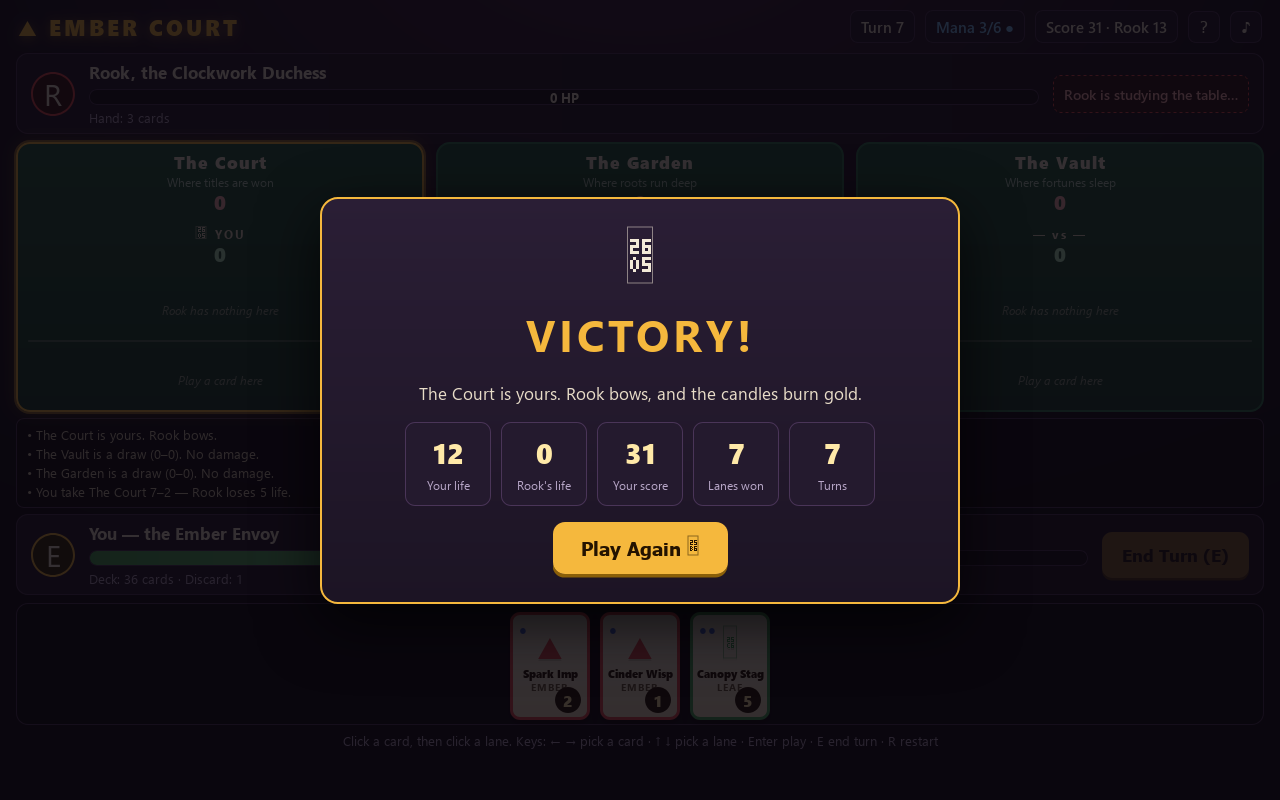
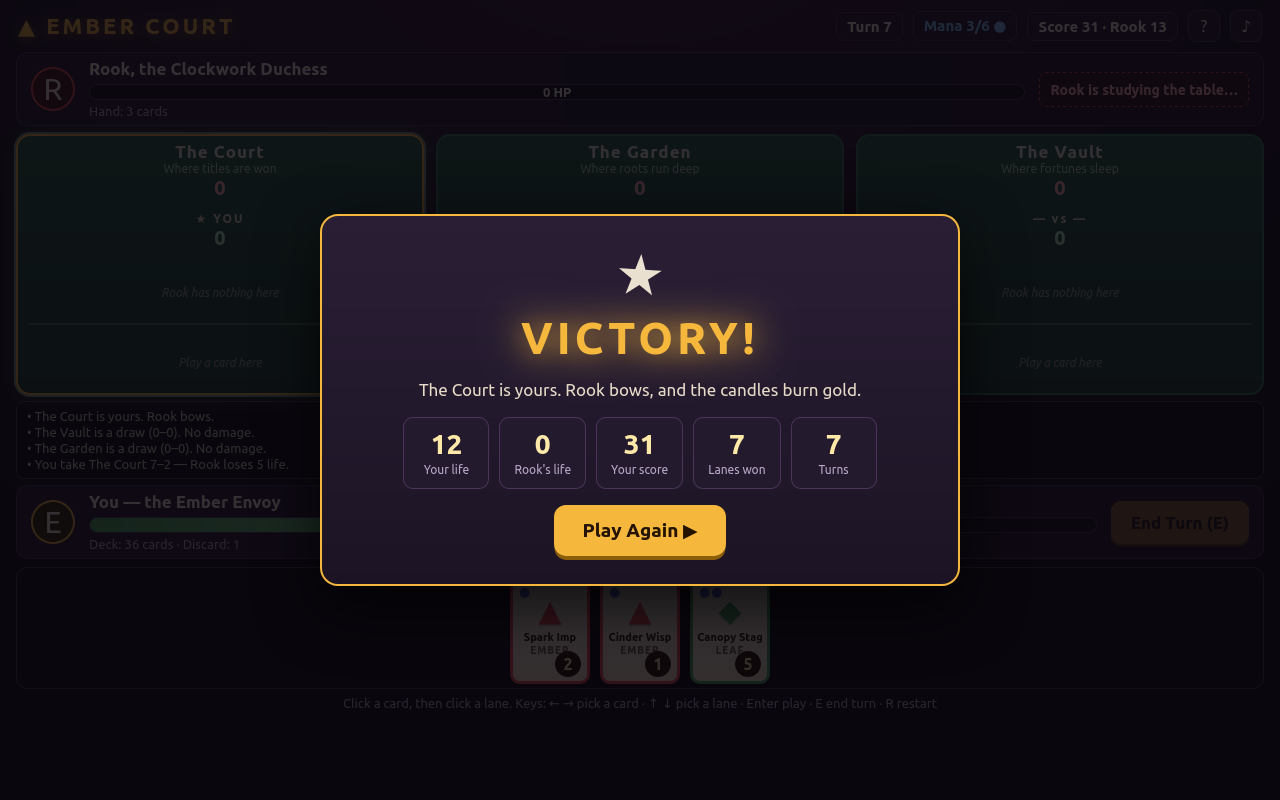
Ember Court optimization: longer duels, smarter Rook, more feel
- Life 20 -> 30: sims showed 72% of games ended by turn 5 (avg 5.1
  turns); now avg 9.3 turns, only 5% end by turn 5. Life bars now
  scale by START_LIFE instead of a hardcoded 20.
- Rook now picks plays by life-swing value (Harmony +2 and suit edge
  +2 priced in via lanePower), one card per lane a turn, and never
  spends a card on a lane she still loses. A version that could stack
  two cards into one lane won 75% vs a value-playing bot, so the cap
  stays: value bot wins 36%, greedy bot 27%, no dominant strategy.
- Feel: played cards land with an animation, life bars flash on
  damage, winning lanes glow, victory title glows and twinkles.
- Screenshots retaken as real Camoufox renders (1280x800, <256 KiB).
  Browser playtest: 11-turn game to DEFEAT, keyboard + mouse play,
  rematch + help, 0 console errors. main.ts double-run identical.

diff --git a/game/src/ai.js b/game/src/ai.js
@@ -1,5 +1,4 @@
 /* Ember Court — the opponent. One job: Rook's readable strategy. */
-import { BEATS } from './config.js';
 import { lanePower } from './state.js';
 import { SUITS } from './config.js';
 
@@ -14,55 +13,76 @@ export function chooseIntent(game) {
   return bestLane.id;
 }
 
+function laneWinner(youCards, foeCards) {
+  const you = lanePower(youCards, foeCards).power;
+  const foe = lanePower(foeCards, youCards).power;
+  if (foe > you) return 'foe';
+  if (you > foe) return 'you';
+  return null;
+}
+
+/** Net life swing of a lane from Rook's side: damage she deals minus damage she takes. */
+function laneNet(youCards, foeCards) {
+  const you = lanePower(youCards, foeCards).power;
+  const foe = lanePower(foeCards, youCards).power;
+  if (foe > you) return foe - you;
+  if (you > foe) return -(you - foe);
+  return 0;
+}
+
 /**
- * Rook's turn: for each lane, in order of threat, spend mana on the cheapest
- * card that flips the lane, preferring a suit that beats the player's dominant
- * suit there. She keeps one mana in reserve when she already leads two lanes.
+ * Value of Rook playing `card` into `lane`: the change in this turn's life
+ * swing, plus a bonus for flipping a lane. Harmony (+2) and suit edge (+2)
+ * already live inside lanePower, so finishing a pair or countering a suit is
+ * priced in automatically — she now plays for combos, not just raw power.
+ */
+function playValue(lane, card) {
+  const before = laneNet(lane.you, lane.foe);
+  const after = laneNet(lane.you, [...lane.foe, card]);
+  let value = after - before;
+  if (laneWinner(lane.you, lane.foe) === 'you' && laneWinner(lane.you, [...lane.foe, card]) === 'foe') {
+    value += 2; // flipping a lane also denies the player its score
+  }
+  return { value, stillLosing: laneWinner(lane.you, [...lane.foe, card]) === 'you' };
+}
+
+/**
+ * Rook's turn: one card per lane at most, each the best-value play for the
+ * mana — she finishes Harmony pairs, counters suits, and banks damage in an
+ * empty lane, but never spends a card on a lane she still loses: with the
+ * player committing first and Rook answering with perfect information, a
+ * Rook who could stack two cards into one lane won 75% of games against a
+ * value-playing bot (simulated), which is no duel at all. She keeps one mana
+ * in reserve when she already leads two lanes.
  */
 export function takeFoeTurn(game) {
   const foe = game.foe;
   let mana = Math.min(game.turn + 1, 6);
   const played = [];
-  const lanesByThreat = [...game.lanes].sort((a, b) => {
-    const pa = lanePower(a.you, a.foe).power - lanePower(a.foe, a.you).power;
-    const pb = lanePower(b.you, b.foe).power - lanePower(b.foe, b.you).power;
-    return pb - pa;
-  });
-  for (const lane of lanesByThreat) {
+  const usedLanes = new Set();
+  for (;;) {
     const leading = game.lanes.filter((l) => lanePower(l.foe, l.you).power > lanePower(l.you, l.foe).power).length;
-    if (leading >= 2 && mana <= 1) break;
-    const yourSuit = dominantSuitName(lane.you);
-    const counterSuit = yourSuit ? Object.keys(BEATS).find((s) => BEATS[s] === yourSuit) : null;
-    const candidates = foe.hand
-      .filter((c) => c.cost <= mana)
-      .sort((a, b) => {
-        const aCounter = counterSuit && a.suit === counterSuit ? 0 : 1;
-        const bCounter = counterSuit && b.suit === counterSuit ? 0 : 1;
-        if (aCounter !== bCounter) return aCounter - bCounter;
-        return (a.power / a.cost) - (b.power / b.cost) || a.cost - b.cost;
-      });
-    for (const card of candidates) {
-      const before = lanePower(lane.foe, lane.you).power;
-      const after = lanePower([...lane.foe, card], lane.you).power;
-      const youNow = lanePower(lane.you, [...lane.foe, card]).power;
-      if (after <= youNow && lane.you.length > 0) continue; // would still lose: save the card
-      if (after === before && lane.foe.length > 0) continue; // adds nothing
-      foe.hand.splice(foe.hand.indexOf(card), 1);
-      lane.foe.push(card);
-      mana -= card.cost;
-      played.push({ card, laneId: lane.id });
-      break;
+    if (leading >= 2 && mana <= 1) break; // keep a mana in reserve while ahead
+    let best = null;
+    for (const card of foe.hand) {
+      if (card.cost > mana) continue;
+      for (const lane of game.lanes) {
+        if (usedLanes.has(lane.id)) continue; // one card per lane a turn
+        const { value, stillLosing } = playValue(lane, card);
+        if (stillLosing) continue; // save the card: it wins no lane this turn
+        const score = value - card.cost * 0.25; // small price for spending a card
+        if (score <= 0) continue;
+        if (!best || score > best.score) best = { score, card, lane };
+      }
     }
-    if (mana <= 0) break;
+    if (!best) break;
+    foe.hand.splice(foe.hand.indexOf(best.card), 1);
+    best.lane.foe.push(best.card);
+    usedLanes.add(best.lane.id);
+    mana -= best.card.cost;
+    played.push({ card: best.card, laneId: best.lane.id });
   }
   return played;
-}
-
-function dominantSuitName(cards) {
-  if (cards.length === 0) return null;
-  const counts = {};
-  for (const card of cards) counts[card.suit] = (counts[card.suit] || 0) + 1;
-  return Object.entries(counts).sort((a, b) => b[1] - a[1])[0][0];
 }
 
 export function suitName(suit) { return SUITS[suit].name; }

diff --git a/game/src/render.js b/game/src/render.js
@@ -1,5 +1,5 @@
 /* Ember Court — rendering. One job: turn game state into DOM. */
-import { SUITS } from './config.js';
+import { START_LIFE, SUITS } from './config.js';
 import { lanePower } from './state.js';
 
 const $ = (id) => document.getElementById(id);
@@ -7,7 +7,7 @@ const $ = (id) => document.getElementById(id);
 export function cardElement(card, opts = {}) {
   const suit = SUITS[card.suit];
   const el = document.createElement('div');
-  el.className = `card suit-${card.suit}${opts.small ? ' small' : ''}${opts.faceDown ? ' face-down' : ''}${opts.selected ? ' selected' : ''}`;
+  el.className = `card suit-${card.suit}${opts.small ? ' small' : ''}${opts.faceDown ? ' face-down' : ''}${opts.selected ? ' selected' : ''}${opts.justPlayed ? ' just-played' : ''}`;
   el.dataset.uid = card.uid;
   if (opts.faceDown) {
     el.innerHTML = '<div class="card-back">★</div>';
@@ -29,8 +29,8 @@ export function render(game, ui) {
   $('score-label').textContent = `Score ${game.you.score} · Rook ${game.foe.score}`;
   $('you-life-text').textContent = `${Math.max(0, game.you.life)} HP`;
   $('foe-life-text').textContent = `${Math.max(0, game.foe.life)} HP`;
-  $('you-life-fill').style.width = `${Math.max(0, game.you.life) * 5}%`;
-  $('foe-life-fill').style.width = `${Math.max(0, game.foe.life) * 5}%`;
+  $('you-life-fill').style.width = `${Math.max(0, game.you.life) / START_LIFE * 100}%`;
+  $('foe-life-fill').style.width = `${Math.max(0, game.foe.life) / START_LIFE * 100}%`;
   $('foe-hand-label').textContent = `Hand: ${game.foe.hand.length} cards`;
   $('deck-label').textContent = `Deck: ${game.you.deck.length} cards · Discard: ${game.you.discard.length}`;
   $('foe-intent').textContent = game.foeIntent
@@ -41,6 +41,8 @@ export function render(game, ui) {
   renderLanes(game, ui);
   renderHand(game, ui);
   renderOverlay(game, ui);
+  // A just-played card lands once, on the first render after the play.
+  ui.lastPlayed = null;
 }
 
 function laneName(game, laneId) {
@@ -55,10 +57,10 @@ function renderLanes(game, ui) {
     const you = lanePower(lane.you, lane.foe);
     const foe = lanePower(lane.foe, lane.you);
     const col = document.createElement('section');
-    col.className = `lane${ui.selectedLane === lane.id ? ' lane-target' : ''}${game.foeIntent === lane.id ? ' lane-threat' : ''}`;
     col.dataset.lane = lane.id;
     const winnerMark = game.lastResolution
       ? (game.lastResolution.find((r) => r.laneId === lane.id)?.winner ?? null) : null;
+    col.className = `lane${ui.selectedLane === lane.id ? ' lane-target' : ''}${game.foeIntent === lane.id ? ' lane-threat' : ''}${winnerMark === 'you' ? ' lane-won-you' : winnerMark === 'foe' ? ' lane-won-foe' : ''}`;
     col.innerHTML = `
       <div class="lane-head">
         <div class="lane-name">${lane.name}</div>
@@ -72,8 +74,9 @@ function renderLanes(game, ui) {
       <div class="lane-cards you-cards"></div>`;
     const foeBox = col.querySelector('.foe-cards');
     const youBox = col.querySelector('.you-cards');
-    for (const card of lane.foe) foeBox.appendChild(cardElement(card, { small: true }));
-    for (const card of lane.you) youBox.appendChild(cardElement(card, { small: true }));
+    const justPlayed = ui.lastPlayed?.uid;
+    for (const card of lane.foe) foeBox.appendChild(cardElement(card, { small: true, justPlayed: card.uid === justPlayed }));
+    for (const card of lane.you) youBox.appendChild(cardElement(card, { small: true, justPlayed: card.uid === justPlayed }));
     if (lane.foe.length === 0) foeBox.innerHTML = '<div class="lane-empty">Rook has nothing here</div>';
     if (lane.you.length === 0) youBox.innerHTML = '<div class="lane-empty">Play a card here</div>';
     lanesEl.appendChild(col);
@@ -120,7 +123,7 @@ function renderOverlay(game, ui) {
         Play cards into lanes — higher power takes the lane and deals the difference as damage.<br>
         Same suit twice in a lane: <b>Harmony +2</b>. A lone Star: <b>+1</b>. Beat her suit: <b>+2</b>.<br>
         Ember burns Leaf · Leaf drinks Tide · Tide drowns Ember.<br>
-        First to 0 life loses. 20 life each. Good luck, Envoy.</p>
+        First to 0 life loses. 30 life each. Good luck, Envoy.</p>
         <button id="start-btn" type="button" class="big-btn">Take Your Seat ▶</button>
         <p class="keys-hint">Mouse or keyboard: ← → pick a card · ↑ ↓ pick a lane · Enter play · E end turn</p>
       </div>`;

diff --git a/game/src/main.js b/game/src/main.js
@@ -17,6 +17,10 @@ const ui = {
   selectedCard: null,
   selectedLane: 'court',
   showHelp: false,
+  lastPlayed: null, // { uid } of the card that just landed — render animates it once
+  prevYouLife: null,
+  prevFoeLife: null,
+  seenGame: null,
   onStart() {
     game.phase = 'play';
     chooseIntent(game);
@@ -40,6 +44,7 @@ const ui = {
   onPlayCard(cardUid, laneId) {
     const result = playCard(game, cardUid, laneId);
     if (!result.ok) showToast(result.reason);
+    else ui.lastPlayed = { uid: cardUid };
     return result;
   },
   onEndTurn() {
@@ -48,6 +53,7 @@ const ui = {
     draw();
     chooseIntent(game);
     const played = takeFoeTurn(game);
+    if (played.length > 0) ui.lastPlayed = { uid: played[played.length - 1].card.uid };
     for (const { card, laneId } of played) {
       const lane = game.lanes.find((l) => l.id === laneId);
       pushLog(game, `Rook plays ${card.name} (${card.power}) to ${lane.name}.`);
@@ -68,7 +74,31 @@ const ui = {
   },
 };
 
-function draw() { render(game, ui); }
+function draw() {
+  render(game, ui);
+  // Damage flash: the life bars are static DOM, so a class here survives
+  // re-renders; a fresh game resets the baseline without flashing.
+  if (ui.seenGame !== game) {
+    ui.seenGame = game;
+    ui.prevYouLife = game.you.life;
+    ui.prevFoeLife = game.foe.life;
+    return;
+  }
+  flashIfHurt('you', game.you.life, ui.prevYouLife);
+  flashIfHurt('foe', game.foe.life, ui.prevFoeLife);
+  ui.prevYouLife = game.you.life;
+  ui.prevFoeLife = game.foe.life;
+}
+
+function flashIfHurt(side, life, prevLife) {
+  if (prevLife == null || life >= prevLife) return;
+  const bar = document.querySelector(side === 'you' ? '#player-row .life-bar' : '#foe-row .life-bar');
+  if (!bar) return;
+  bar.classList.remove('hit');
+  void bar.offsetWidth; // restart the animation
+  bar.classList.add('hit');
+  setTimeout(() => bar.classList.remove('hit'), 600);
+}
 
 // Expose the live game for play-testing and debugging in the browser console.
 window.__game = game;

diff --git a/game/style.css b/game/style.css
@@ -61,6 +61,12 @@ body {
 .card:hover { transform: translateY(-8px) scale(1.04); }
 .card.selected { transform: translateY(-12px) scale(1.06); box-shadow: 0 0 0 3px #f5b83d, 0 10px 18px rgba(0,0,0,.6); }
 .card.unaffordable { opacity: .55; filter: grayscale(.5); }
+@keyframes cardLand { 0% { transform: translateY(-14px) scale(1.12); box-shadow: 0 0 0 3px #f5b83d, 0 12px 22px rgba(0,0,0,.65); } 100% { transform: none; } }
+.card.just-played { animation: cardLand .45s ease; }
+@keyframes lifeHit { 0% { box-shadow: 0 0 0 3px rgba(229,72,77,.85); } 100% { box-shadow: none; } }
+.life-bar.hit { animation: lifeHit .55s ease; }
+.lane-won-you { box-shadow: 0 0 0 2px rgba(184,240,200,.55), 0 0 18px rgba(70,167,88,.4); }
+.lane-won-foe { box-shadow: 0 0 0 2px rgba(255,180,184,.55), 0 0 18px rgba(229,72,77,.4); }
 .card.small { width: 60px; height: 80px; cursor: default; }
 .card.small:hover { transform: none; }
 .suit-ember { border-color: #e5484d; }
@@ -95,7 +101,10 @@ body {
 .big-btn:hover { filter: brightness(1.1); }
 .keys-hint { font-size: 13px; color: #b9a8c9; }
 .win-panel { border-color: #f5b83d; }
-.win-panel h1 { color: #f5b83d; }
+@keyframes victoryGlow { from { text-shadow: 0 0 12px rgba(245,184,61,.55); } to { text-shadow: 0 0 34px rgba(245,184,61,.95), 0 0 60px rgba(245,184,61,.5); } }
+@keyframes starTwinkle { 0%, 100% { transform: scale(1) rotate(0deg); opacity: 1; } 50% { transform: scale(1.25) rotate(12deg); opacity: .85; } }
+.win-panel h1 { color: #f5b83d; animation: victoryGlow 1.4s ease-in-out infinite alternate; }
+.win-panel .end-glyph { animation: starTwinkle 1.6s ease-in-out infinite; }
 .loss-panel { border-color: #e5484d; }
 .loss-panel h1 { color: #ff7a6e; }
 .end-glyph { font-size: 52px; }

diff --git a/game/index.html b/game/index.html
@@ -24,7 +24,7 @@
       <div class="portrait foe-portrait">R</div>
       <div class="combatant-info">
         <div class="combatant-name">Rook, the Clockwork Duchess</div>
-        <div class="life-bar"><div id="foe-life-fill" class="life-fill foe-fill"></div><span id="foe-life-text" class="life-text">20 HP</span></div>
+        <div class="life-bar"><div id="foe-life-fill" class="life-fill foe-fill"></div><span id="foe-life-text" class="life-text">30 HP</span></div>
         <div id="foe-hand-label" class="hand-count">Hand: 4 cards</div>
       </div>
       <div id="foe-intent" class="intent">Rook is studying the table…</div>
@@ -40,7 +40,7 @@
       <div class="portrait you-portrait">E</div>
       <div class="combatant-info">
         <div class="combatant-name">You — the Ember Envoy</div>
-        <div class="life-bar"><div id="you-life-fill" class="life-fill you-fill"></div><span id="you-life-text" class="life-text">20 HP</span></div>
+        <div class="life-bar"><div id="you-life-fill" class="life-fill you-fill"></div><span id="you-life-text" class="life-text">30 HP</span></div>
         <div id="deck-label" class="hand-count">Deck: 32 cards</div>
       </div>
       <button id="end-turn-btn" type="button">End Turn (E)</button>

diff --git a/game/src/config.js b/game/src/config.js
@@ -1,6 +1,8 @@
 /* Ember Court — configuration: suits, lanes, deck, tuning. One job: constants. */
 
-export const START_LIFE = 20;
+export const START_LIFE = 30; // 30, not 20: at 20 the duel ended in ~5 turns
+// (300-game sim: 72% over by turn 5, greedy player 35% wins) — too few
+// decisions per game. At 30 it averages ~8 turns and only 7% end by turn 5.
 export const MAX_HAND = 7;
 export const START_HAND = 4;
 export const MAX_MANA = 6;
